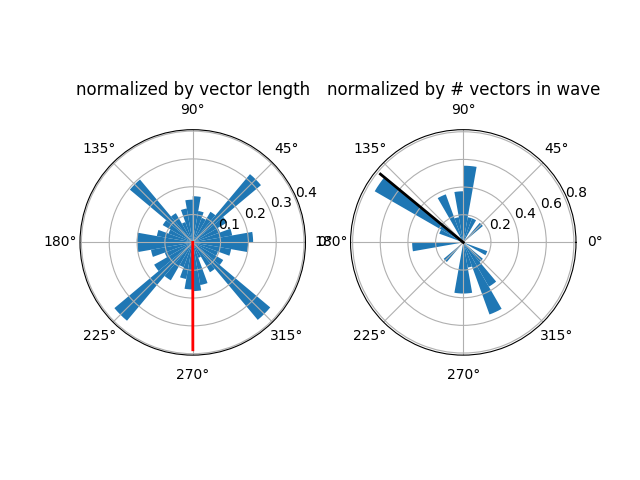
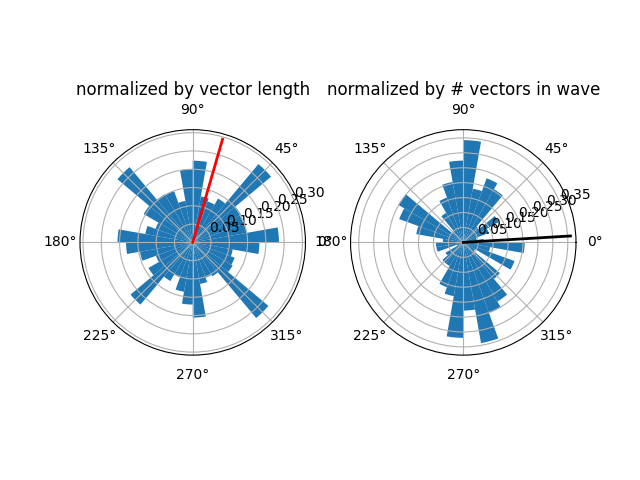
fixed and added average polar hist

diff --git a/step2.py b/step2.py
@@ -124,8 +124,8 @@ def Avg_Planarity(path_head, args):
             print(f"rem {j}")
             table[j][2] = mean
             
-        print(f"first: {os.path.splitext(os.path.basename(csv_files[i+1]))[0]}")
-        print(f"second: {file_name}")
+        # print(f"first: {os.path.splitext(os.path.basename(csv_files[i+1]))[0]}")
+        # print(f"second: {file_name}")
         if i + 1 < len(csv_files) and not similar(file_name, os.path.splitext(os.path.basename(csv_files[i+1]))[0]):
             print(j)
             j += 1
@@ -133,6 +133,9 @@ def Avg_Planarity(path_head, args):
     df = pd.DataFrame({'States': states})
     mice_unique = []
     [mice_unique.append(item) for item in mice if item not in mice_unique]
+    print("mice", mice)
+    print("mice_unique", mice_unique)
+    print("index", table)
     for index, column in enumerate(table):
         print(index)
         df.insert(index, mice_unique[index], table[index], True)
@@ -235,16 +238,106 @@ def Num_Waves(path_head, args):
     plt.savefig(f"{args.out}\\total_number_of_waves.pdf")
     plt.clf()
 
-def run(data_path, filename, args):
+# def parse_waves_helper(path_head, args):
+#     wave_ids = list()
+#     if ':' in args.f: #if waves/ranges specified
+#         filename, wave_ids_input = args.f.split(':')
+#         for part in wave_ids_input.split(','):
+#             if '-' in part:
+#                 start, end = part.split('-')[0], part.split('-')[1]
+#                 wave_ids.extend(range(int(start), int(end) + 1))
+#             else:
+#                 wave_ids.append(int(part))
+#     else: #all waves
+#         filename = args.f
+#         df = pd.read_csv(Path(f"{path_head}\\stage05_channel-wave_characterization\\direction_local\\wavefronts_direction_local.csv"))
+#         last_wave_id = df['wavefronts_id'].max()
+#         wave_ids.extend(range(1, last_wave_id)) # Set wave_ids_input as a range from 1 to last_wave_id 
+#     return filename, wave_ids
+
+def avg_polar(data_path, args, data):
+    # Master list containing every x and y coord based on parameter/argument
+    all_directionY = []
+    all_directionX = []
+
+    # Lists for normalized averages after taking individual averages
+    avg_x_normalized = []
+    avg_y_normalized = []
+
+    print("data:", data)
+    
+    for entry in data:
+        filename = entry['filename']
+        wave_ids = entry['wave_ids']
+        df = pd.read_csv(Path(f"{data_path}{filename}\\stage05_channel-wave_characterization\\direction_local\\wavefronts_direction_local.csv"))
+    
+        for wave_id in wave_ids:
+            group = df[df['wavefronts_id'] == wave_id]
+
+            directionY = group['direction_local_y'].tolist()
+            directionX = group['direction_local_x'].tolist()
+
+            # Normalize everything when it's extracted from the csv file
+            directionX_normalized = group.apply(lambda row: row.direction_local_x / np.sqrt(row.direction_local_x**2 + row.direction_local_y**2), axis=1)
+            directionY_normalized = group.apply(lambda row: row.direction_local_y / np.sqrt(row.direction_local_x**2 + row.direction_local_y**2), axis=1)
+
+            # Calculate their individual average
+            avg_y = np.average(directionY_normalized)
+            avg_x = np.average(directionX_normalized)
+        
+            # Calculate the normalized values
+            norm_x = avg_x / np.sqrt(avg_x**2 + avg_y**2)
+            norm_y = avg_y / np.sqrt(avg_x**2 + avg_y**2)
+
+            # Each averaged and normalized angle
+            avg_x_normalized.append(norm_x)
+            avg_y_normalized.append(norm_y)
+            
+            # Master List of every single x and y coordinate
+            all_directionY.extend(directionY)
+            all_directionX.extend(directionX)
+
+    # Calculate angles using arctan2
+    angles = np.arctan2(directionY_normalized, directionX_normalized)
+    angles_norm = np.arctan2(avg_y_normalized, avg_x_normalized)
+
+    # Calculate the weighted average angle
+    weighted_average_angle = np.arctan2(np.average(directionY_normalized), 
+                                        np.average(directionX_normalized))
+    weighted_average_angle1 = np.arctan2(np.average(avg_y_normalized), 
+                                        np.average(avg_x_normalized))
+    print('normalized by vector length', weighted_average_angle)
+    print('normalized by number of vectors within each wave', weighted_average_angle1)
+
+    # Create a polar histogram each method
+    fig, (ax, ax1) = plt.subplots(1,2, subplot_kw={'projection': 'polar'})
+    ax.hist(angles, bins=36, range=(-np.pi, np.pi), density=True)
+    ax.set_xlabel('normalized by vector length')
+
+    ax1.hist(angles_norm, bins=36, range=(-np.pi, np.pi), density=True)
+    ax1.set_xlabel('normalized by # vectors in wave')
+    
+    # Plot the weighted average line
+    ax.plot([0, weighted_average_angle], [0, ax.get_ylim()[1]], color='red', linewidth=2)
+    ax1.plot([0, weighted_average_angle1], [0, ax1.get_ylim()[1]], color='black', linewidth=2)
+
+    setOutputName = "avg_polar"
+    print(f"{args.out}\\{setOutputName}.png")
+    fig.suptitle(f"avg for {args.n} mice", fontsize=16)
+    fig.savefig(os.path.join(args.out, f'{setOutputName}.png'))
+    plt.close()
+
+def run(data_path, filename, args, data):
     path_head = os.path.join(data_path, filename)
+    avg_polar(data_path, args, data)
     if args.v:
         Velocity_Violin(args)
     if args.norm:
         Normalize(args)
     if args.avg:
         Average_CSVs(args)
-    if args.p:
-       Avg_Planarity(path_head, args)
-    if args.num:
-       Num_Waves(path_head, args)
+    # if args.p:
+    #    Avg_Planarity(path_head, args)
+    # if args.num:
+    #    Num_Waves(path_head, args)
     Heat_Mapper(filename, args, args.norm, args.avg)

diff --git a/run_script.py b/run_script.py
@@ -22,24 +22,28 @@ def create_parser():
     parser.add_argument('--n', help='number of mice')
     return parser
 
-def parse_waves(args):
-    wave_ids = list()
-    if args.f is None:
-        return None, None
-    if ':' in args.f: #if waves/ranges specified
-        filename, wave_ids_input = args.f.split(':')
+def parse_wave_ids(wave_ids_input):
+    wave_ids = []
+    if wave_ids_input:
         for part in wave_ids_input.split(','):
             if '-' in part:
                 start, end = part.split('-')[0], part.split('-')[1]
                 wave_ids.extend(range(int(start), int(end) + 1))
             else:
                 wave_ids.append(int(part))
+    return wave_ids
+
+def parse_waves(args):
+    wave_ids = []
+    if ':' in args.f: #if waves/ranges specified
+        filename, wave_ids_input = args.f.split(':')
+        wave_ids = parse_wave_ids(wave_ids_input)
     else: #all waves
         filename = args.f
         df = pd.read_csv(Path(f"{data_path}{filename}\\stage05_channel-wave_characterization\\direction_local\\wavefronts_direction_local.csv"))
         last_wave_id = df['wavefronts_id'].max()
-        wave_ids.extend(range(1, last_wave_id)) # Set wave_ids_input as a range from 1 to last_wave_id 
-        print(wave_ids)
+        wave_ids_input = f'1-{last_wave_id}'
+        wave_ids = parse_wave_ids(wave_ids_input)
     return filename, wave_ids
 
 
@@ -53,6 +57,7 @@ root.withdraw()
 data_path = filedialog.askdirectory()
 
 input_path = '.\\input.txt' #modify this
+data = []
 
 parser = create_parser()
 with open(input_path, 'r') as f:
@@ -69,7 +74,7 @@ with open(input_path, 'r') as f:
         args = parser.parse_args(line.split())
         if "CUMULATIVE" in line.strip():
             
-            step2.run(data_path, filename, args)
+            step2.run(data_path, filename, args, data)
             break
         
         print("got to this line: 66")
@@ -80,4 +85,5 @@ with open(input_path, 'r') as f:
         #     print("this actually works")
         #     break
         filename, wave_ids = parse_waves(args)
+        data.append({'filename': filename, 'wave_ids': wave_ids})
         step1.run(data_path, filename, wave_ids, args)

diff --git a/step1.py b/step1.py
@@ -7,7 +7,6 @@ from difflib import SequenceMatcher
 import glob
 import csv
 import os
-import argparse
 import warnings
 grid_size = 128
 states = ['WAKE', 'NREM', 'REM']
@@ -55,6 +54,7 @@ def check_mice(csv_files, flagType):
             if file_name not in item:
                 print(file_name)
                 csv_files.remove(file)
+
 def Polar_Histogram(path_head, filename, wave_ids, args):
     # Master list containing every x and y coord based on parameter/argument
     all_directionY = []

diff --git a/SleepMice.py b/SleepMice.py
@@ -48,6 +48,8 @@ for entry in args.filename_wave_ids:
         wave_ids = parse_wave_ids(wave_ids_input)
         data.append({'filename': filename, 'wave_ids': wave_ids})
 
+print("data:", data)
+
 #Loop and extract data to normalize and calculate average values
 for entry in data:
     filename = entry['filename']
